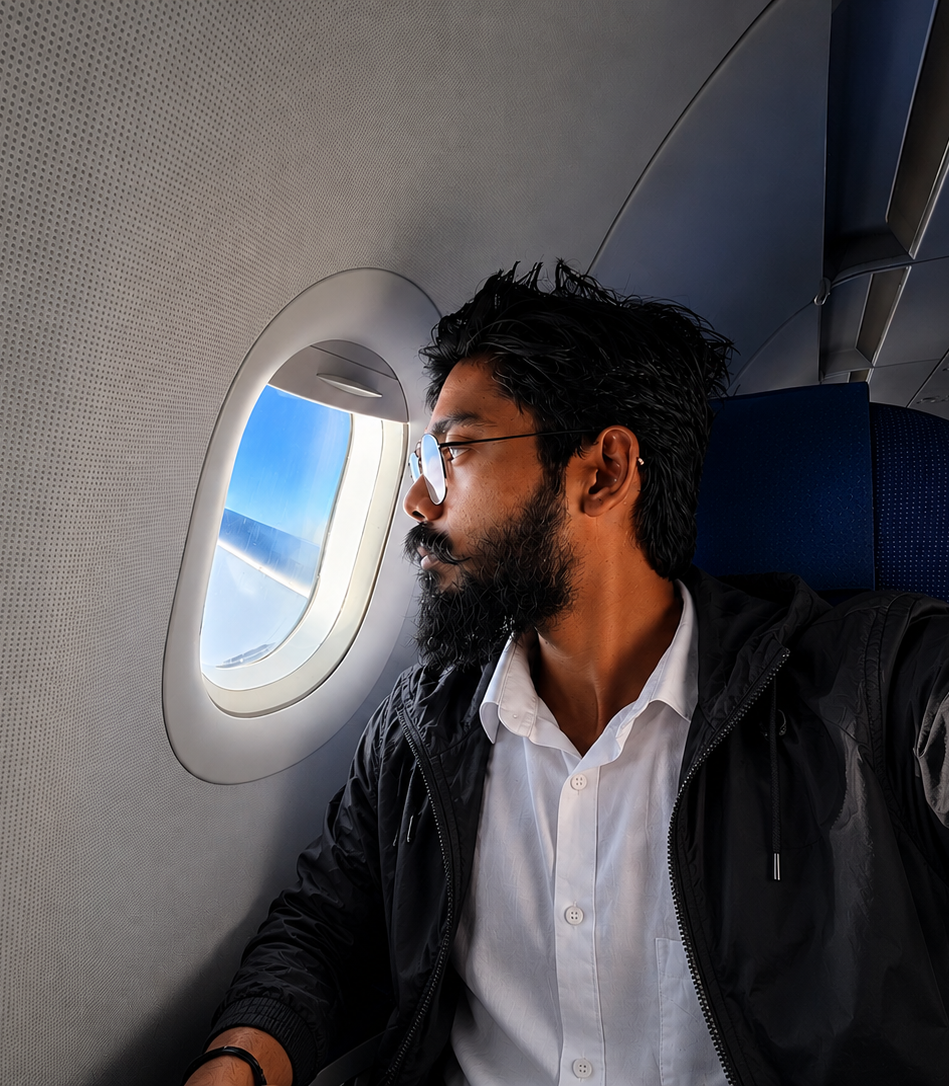
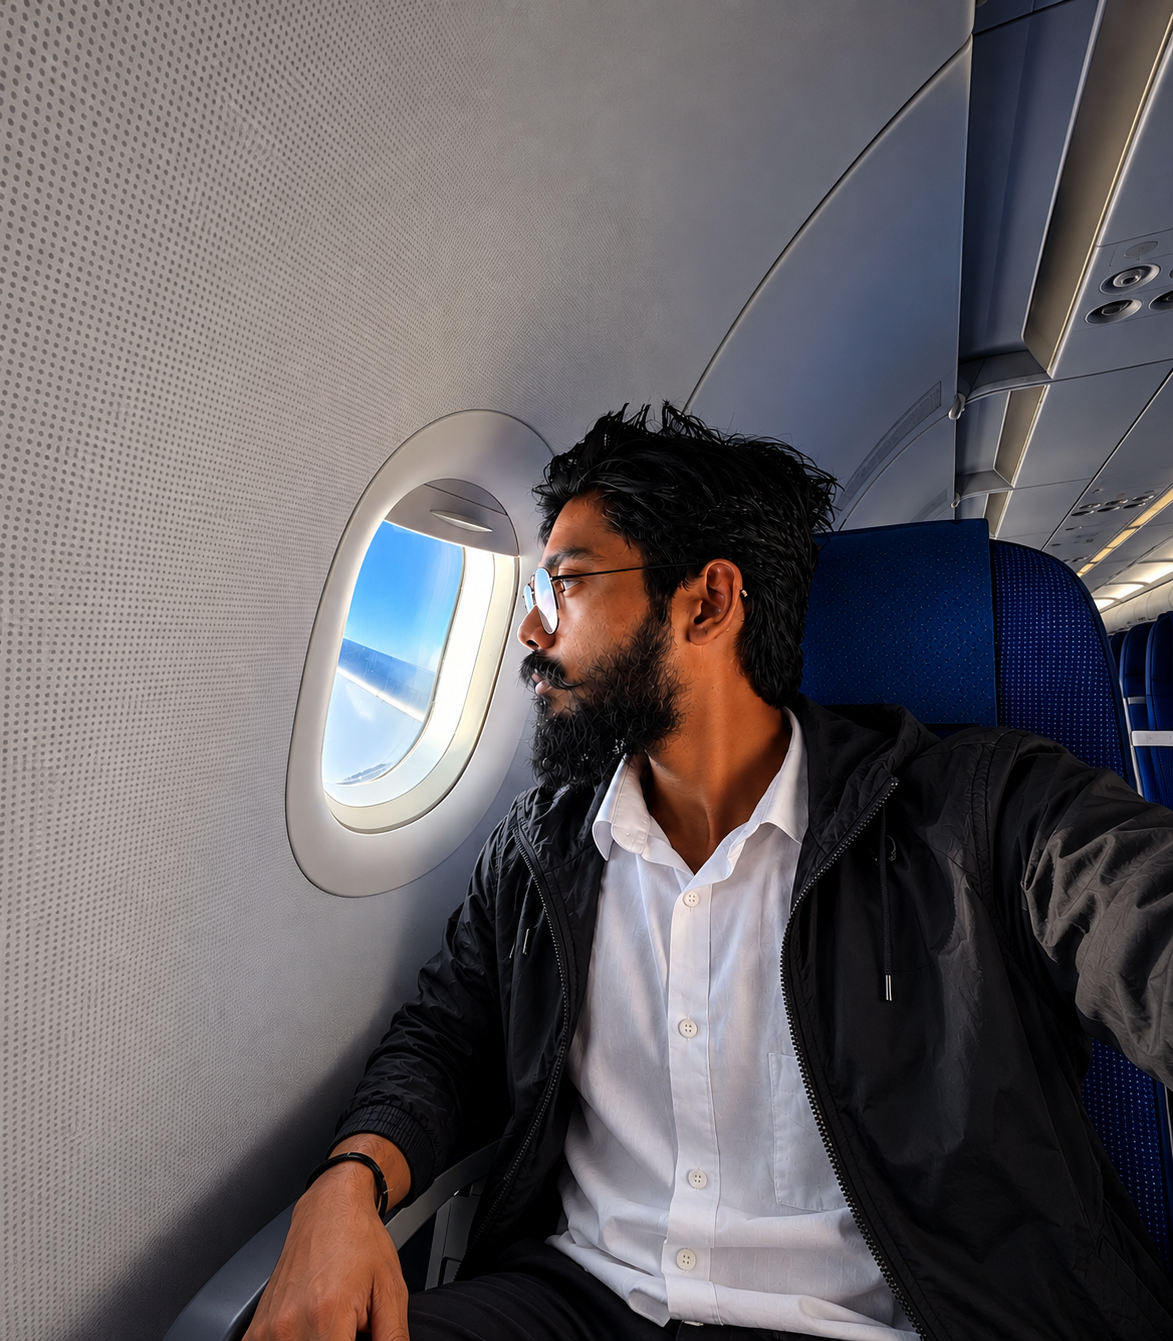
stable v2

diff --git a/src/components/Hero/HeroSection.tsx b/src/components/Hero/HeroSection.tsx
@@ -88,7 +88,7 @@ function PortraitCard() {
   }, [])
 
   return (
-    <div className="perspective-1000 w-full max-w-sm mx-auto lg:mx-0">
+    <div className="perspective-1000 w-full max-w-xs sm:max-w-sm md:max-w-md mx-auto lg:mx-0">
       <motion.div
         ref={cardRef}
         onMouseMove={handleMouseMove}
@@ -134,8 +134,7 @@ function PortraitCard() {
           <img
             src={profile.image}
             alt={profile.fullName}
-            className="w-full h-full object-cover block"
-            style={{ aspectRatio: '3/4', minHeight: '400px', maxHeight: '520px' }}
+            className="w-full h-full object-cover block portrait-img"
             loading="eager"
             fetchPriority="high"
           />
@@ -226,7 +225,7 @@ export default function HeroSection() {
 
       {/* 3D Orb — right background */}
       <div
-        className="absolute right-0 top-0 bottom-0 w-full lg:w-1/2 opacity-40 lg:opacity-60 pointer-events-none"
+        className="absolute right-0 top-0 bottom-0 w-full sm:w-2/3 lg:w-1/2 opacity-30 sm:opacity-40 lg:opacity-60 pointer-events-none"
         aria-hidden="true"
       >
         <Suspense fallback={null}>
@@ -235,15 +234,15 @@ export default function HeroSection() {
       </div>
 
       {/* Content */}
-      <div className="relative z-10 max-w-7xl mx-auto px-6 lg:px-8 w-full pt-24 pb-16">
-        <div className="grid lg:grid-cols-2 gap-16 lg:gap-20 items-center">
+      <div className="relative z-10 max-w-7xl mx-auto w-full pt-20 sm:pt-24 lg:pt-28 pb-12 sm:pb-16 lg:pb-20">
+        <div className="grid grid-cols-1 lg:grid-cols-2 gap-10 sm:gap-14 lg:gap-16 xl:gap-20 items-center px-5 sm:px-6 lg:px-8">
 
           {/* Left — Text content */}
           <motion.div
             variants={containerVariants}
             initial="hidden"
             animate="show"
-            className="space-y-8"
+            className="space-y-6 sm:space-y-7 lg:space-y-8"
           >
             {/* Sub-label */}
             <motion.div variants={fadeUp}>
@@ -261,7 +260,7 @@ export default function HeroSection() {
             {/* Description */}
             <motion.p
               variants={fadeUp}
-              className="text-lg text-text-secondary max-w-md leading-relaxed"
+              className="text-base sm:text-lg text-text-secondary max-w-md leading-relaxed"
             >
               {profile.description}
             </motion.p>
@@ -299,11 +298,11 @@ export default function HeroSection() {
             </motion.div>
 
             {/* Stats */}
-            <motion.div variants={fadeUp} className="pt-4">
-              <div className="flex gap-8 flex-wrap">
+            <motion.div variants={fadeUp} className="pt-2 sm:pt-4">
+              <div className="flex gap-6 sm:gap-8 flex-wrap">
                 {stats.slice(0, 3).map((stat) => (
                   <div key={stat.label}>
-                    <div className="font-display font-bold text-2xl text-text-primary">
+                    <div className="font-display font-bold text-xl sm:text-2xl text-text-primary">
                       {stat.value}{stat.suffix}
                     </div>
                     <div className="text-xs text-text-muted mt-0.5">{stat.label}</div>
@@ -330,7 +329,7 @@ export default function HeroSection() {
         initial={{ opacity: 0 }}
         animate={{ opacity: 1 }}
         transition={{ delay: 1.5 }}
-        className="absolute bottom-8 left-1/2 -translate-x-1/2 flex flex-col items-center gap-2"
+        className="hidden sm:flex absolute bottom-6 sm:bottom-8 left-1/2 -translate-x-1/2 flex-col items-center gap-2"
       >
         <div className="text-label text-text-muted" style={{ fontSize: '0.6rem' }}>SCROLL</div>
         <motion.div

diff --git a/src/index.css b/src/index.css
@@ -108,7 +108,7 @@ body {
 /* Fluid hero display */
 .text-hero {
   font-family: 'Space Grotesk', sans-serif;
-  font-size: clamp(3rem, 9vw, 8rem);
+  font-size: clamp(2.5rem, 8vw, 7.5rem);
   font-weight: 700;
   line-height: 0.95;
   letter-spacing: -0.04em;
@@ -396,6 +396,33 @@ body {
 }
 
 /* ============================================================
+   PORTRAIT IMAGE
+   ============================================================ */
+.portrait-img {
+  aspect-ratio: 3/4;
+  max-width: 420px;
+  max-height: 520px;
+  min-height: 280px;
+  width: 100%;
+  object-fit: cover;
+}
+
+@media (max-width: 480px) {
+  .portrait-img {
+    max-width: 100%;
+    max-height: 420px;
+    min-height: 220px;
+  }
+}
+
+@media (min-width: 768px) and (max-width: 1023px) {
+  .portrait-img {
+    max-width: 340px;
+    max-height: 460px;
+  }
+}
+
+/* ============================================================
    PORTRAIT CARD — HUD EFFECTS
    ============================================================ */
 .portrait-card {
@@ -622,8 +649,9 @@ body {
    ============================================================ */
 @media (max-width: 768px) {
   .text-hero {
-    font-size: clamp(2.5rem, 11vw, 5rem);
+    font-size: clamp(2.25rem, 10vw, 4.5rem);
     letter-spacing: -0.03em;
+    line-height: 1.0;
   }
 
   .text-heading {
@@ -632,6 +660,26 @@ body {
 
   body {
     cursor: auto;
+  }
+}
+
+/* Extra small screens (≤ 480px) */
+@media (max-width: 480px) {
+  .text-hero {
+    font-size: clamp(2rem, 12vw, 3rem);
+    line-height: 1.02;
+  }
+
+  .btn {
+    padding: 0.65rem 1.25rem;
+    font-size: 0.85rem;
+  }
+}
+
+/* Large screens (≥ 1280px) */
+@media (min-width: 1280px) {
+  .text-hero {
+    font-size: clamp(4rem, 7.5vw, 8rem);
   }
 }
 
